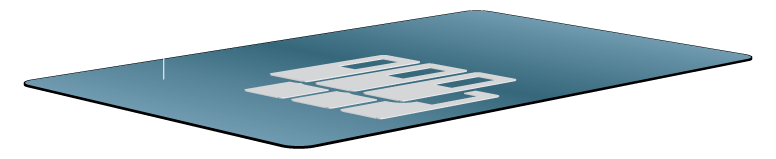
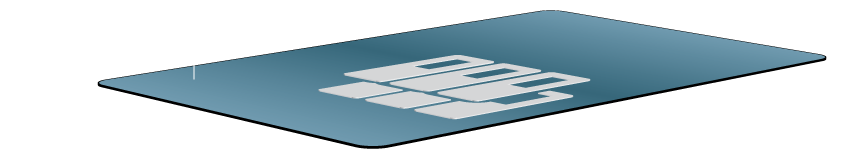
Update network image and data stack on home page

Changed region(s): [[0.0309, 0.0503, 0.9897, 0.956]]

diff --git a/styles/home_page.css b/styles/home_page.css
@@ -75,7 +75,7 @@ body {
   body h1, body h2 {
     text-transform: uppercase; }
   body h1 {
-    margin: 240px 0 0 0;
+    margin: 0px 0 0 0;
     font-size: 3.6em;
     font-weight: 100;
     letter-spacing: .05em; }
@@ -149,14 +149,14 @@ body .full-width-button {
 body #data-stack {
   margin: 0 auto;
   padding-top: 30px;
-  width: 776px;
+  width: 850px;
   height: 679px; }
 body #data-stack div {
   height: 160px;
   margin-bottom: -70px;
   vertical-align: baseline; }
 body #network-image {
-  height: 400px;
+  height: 300px;
   overflow: hidden; }
 body footer {
   padding: 40px; }

diff --git a/styles/home_page.scss b/styles/home_page.scss
@@ -38,7 +38,7 @@ body{
 	}
 
 	h1{
-		margin:240px 0 0 0;
+		margin:0px 0 0 0;
 		font-size: 3.6em;
 		font-weight: 100;
 		letter-spacing: .05em;
@@ -163,7 +163,7 @@ body{
 	#data-stack{
 		margin: 0 auto;
 		padding-top:30px;
-		width: 776px;
+		width: 850px;
 		height: 679px;
 	}
 
@@ -174,7 +174,7 @@ body{
 	}
 
 	#network-image{
-		height: 400px;
+		height: 300px;
 		overflow: hidden;
 	}
 
